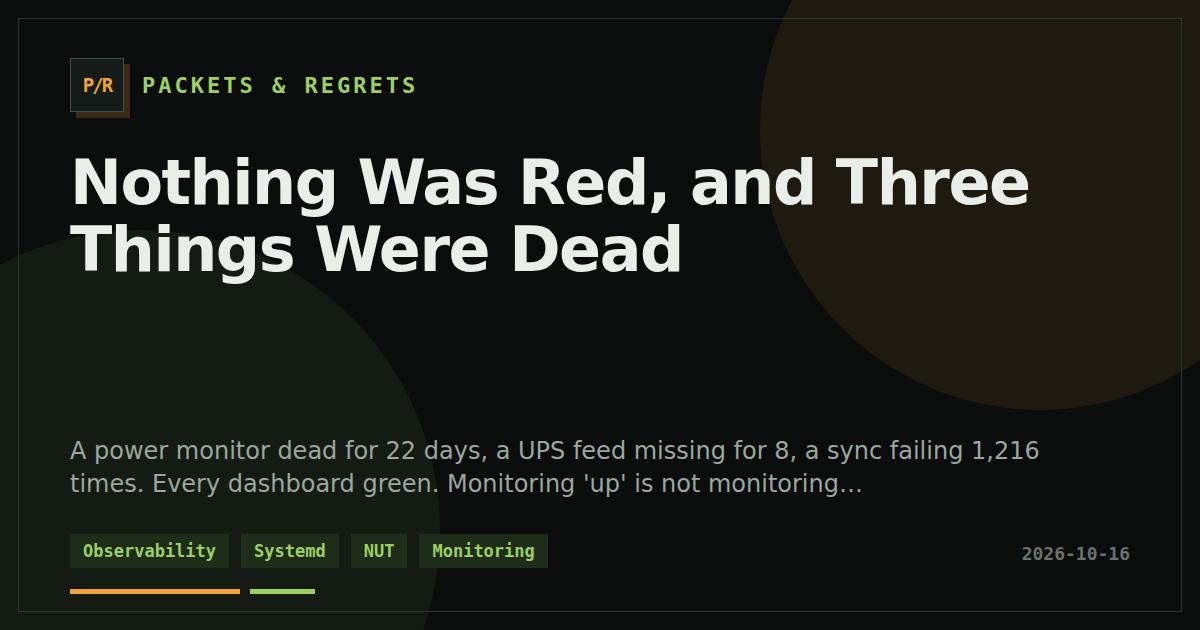
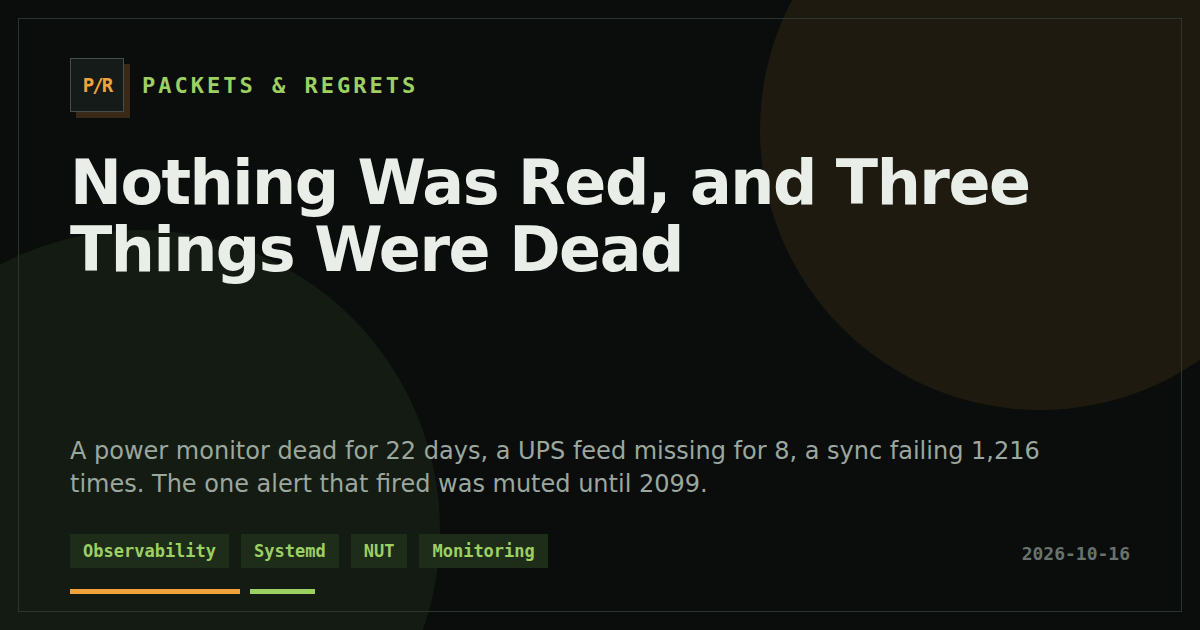
Publish: Nothing Was Red, and Three Things Were Dead (corrected: UPS alert was muted, not silent)

Changed region(s): [[0.1233, 0.754, 0.7092, 0.7841]]

diff --git a/content/posts/nothing-was-red-and-three-things-were-dead.md b/content/posts/nothing-was-red-and-three-things-were-dead.md
@@ -1,13 +1,13 @@
 ---
 title: "Nothing Was Red, and Three Things Were Dead"
-description: "A power monitor dead for 22 days, a UPS feed missing for 8, a sync failing 1,216 times. Every dashboard green. Monitoring 'up' is not monitoring 'working'."
+description: "A power monitor dead for 22 days, a UPS feed missing for 8, a sync failing 1,216 times. The one alert that fired was muted until 2099."
 date: 2026-10-16T15:55:00+02:00
-draft: true
+draft: false
 categories: ["Incident Reports"]
 tags: ["Observability", "Systemd", "NUT", "Monitoring", "Homelab"]
 ---
 
-I run Prometheus. I run Gatus. I have dashboards with so many green tiles that it looks like a golf course. And in the last three weeks, three separate things in my lab were quietly dead, and not one of those tiles turned red.
+I run Prometheus. I run Gatus. I have dashboards with so many green tiles that it looks like a golf course. And in the last three weeks, three separate things in my lab were quietly dead. Two of them never turned a single tile red. The third one did go red, for eight straight days, and I had personally made sure nobody would hear about it.
 
 One was the thing that's supposed to shut my servers down cleanly when the power goes out. It was dead for 22 days.
 
@@ -42,6 +42,10 @@ What happened next is a chain of polite failures:
 
 So for **8 days** I had no UPS data. No battery charge, no load, no runtime estimate. And the graph panels? They just... showed nothing. A blank panel is not a red panel. It's a panel that has quietly stopped talking to you.
 
+Except this time something *was* red. Gatus has two UPS checks, "on mains power" and "battery above 30%", and both failed for the whole eight days. Gatus did its job. The thing that turns a red Gatus check into a message on my phone is a small watchdog script, and that script has an ignore list. On September 12, in the middle of the earlier NUT mess, both UPS checks went onto it. As a temporary mute. With an expiry date of **2099**.
+
+I found that while fact-checking this post, which is a sentence I'd like to never write again. Think about what it means: "UPS on mains power" was the one check whose entire job is to tell me the power went out, and it had been switched off for a month. A real power cut would have produced a red tile and total silence. The mute is gone now. The expiry is the joke; the month without the one alarm that matters isn't.
+
 Notice the pair. Regret 1 means the nodes weren't *listening* to the UPS. Regret 2 means I wasn't either. For a week I had a UPS, three nodes and a monitoring stack, and they were all politely not talking to each other.
 
 ## Regret 3: the sync that failed 1,216 times
@@ -70,7 +74,7 @@ And check this out, because it's the same lesson one more time: the script's own
 | What died | What the machine saw | Why nothing alerted |
 |---|---|---|
 | power monitor | clean exit, code 0 | not "failed", so no failed-unit signal |
-| UPS data feed | one dependency unhealthy, one never started | a missing metric is not a firing alert |
+| UPS data feed | two Gatus checks red, exporter gone | the alert was muted "temporarily", until 2099 |
 | inventory sync | failed unit, every 15 min | failed state in a place nobody watches |
 
 My monitoring was built around one question: **is the thing up?** HTTP 200, port open, container healthy. That's a good question for a web server. It's a bad question for a job. A sync job isn't "up." It runs, or it doesn't. A monitor that exits 0 isn't "down," it's *absent*, and absence has no metric.
@@ -101,7 +105,7 @@ First thing it taught me was humility: I immediately had to add a short ignore l
 - **A blank graph is a finding.** If a panel goes empty, that's a failure of the exporter, not a quiet day. Alert on `absent()` for things that must always report.
 - **Your dry-run mode is not a test.** Mine skipped every write. Tell yourself which half of the code path it doesn't exercise.
 - **Test the recovery, not just the fix.** I killed the unit and watched it come back. That takes a minute and it's the only proof that counts.
-- **Write the reason next to every ignore.** Future you is a stranger with a mute button.
+- **Write the reason next to every ignore, and give it an expiry you will actually live to see.** Future you is a stranger with a mute button. Past me apparently thought 2099 counted as temporary.
 
 ## What I don't know yet
 
@@ -110,4 +114,4 @@ First thing it taught me was humility: I immediately had to add a short ignore l
 - **I don't know why the UPS setting flipped.** It might be a firmware update, a controller change, or me. The evidence only shows that it was on and then it wasn't.
 - **The 22 days and 8 days come from my own notes and commit history**, not from a graph I can pull up now. The 1,216 failed runs come straight from the journal, counted this week.
 
-The uncomfortable bit isn't any single bug. It's that all three of them were boring, ordinary failures that a decently built system should have *shouted* about, and the thing that was supposed to shout was waiting for a crash. Something that quietly stops is not a crash. It's a resignation, and I hadn't given my lab a way to notice people leaving.
+The uncomfortable bit isn't any single bug. It's that all three of them were boring, ordinary failures that a decently built system should have *shouted* about. Two times the thing that was supposed to shout was waiting for a crash. The third time it was shouting, and I'd put a pillow over it. Something that quietly stops is not a crash. It's a resignation, and I hadn't given my lab a way to notice people leaving.

diff --git a/README.md b/README.md
@@ -18,6 +18,7 @@ Public URL: <https://blog.zezelj.org>
 - [I Put One Docker App on Kubernetes. Download Was Fine. Upload Fell Off a Cliff.](https://blog.zezelj.org/posts/i-put-one-docker-app-on-kubernetes-download-was-fine-upload-fell-off-a-cliff/) — k3s + Cilium + Hubble flows into [SIB](https://github.com/matijazezelj/sib), four apps moved over, and a speed test that caught half a test
 - [From 12,669 Findings to a To-Do List: Security Tooling for a Home Lab](https://blog.zezelj.org/posts/one-compose-command-seven-security-tools/)
 - [My Coding Agent Has a Shell and My SSH Keys. So I Built It a Leash.](https://blog.zezelj.org/posts/my-coding-agent-has-a-shell-and-my-ssh-keys/)
+- [Nothing Was Red, and Three Things Were Dead](https://blog.zezelj.org/posts/nothing-was-red-and-three-things-were-dead/)
 
 ## Local development
 
